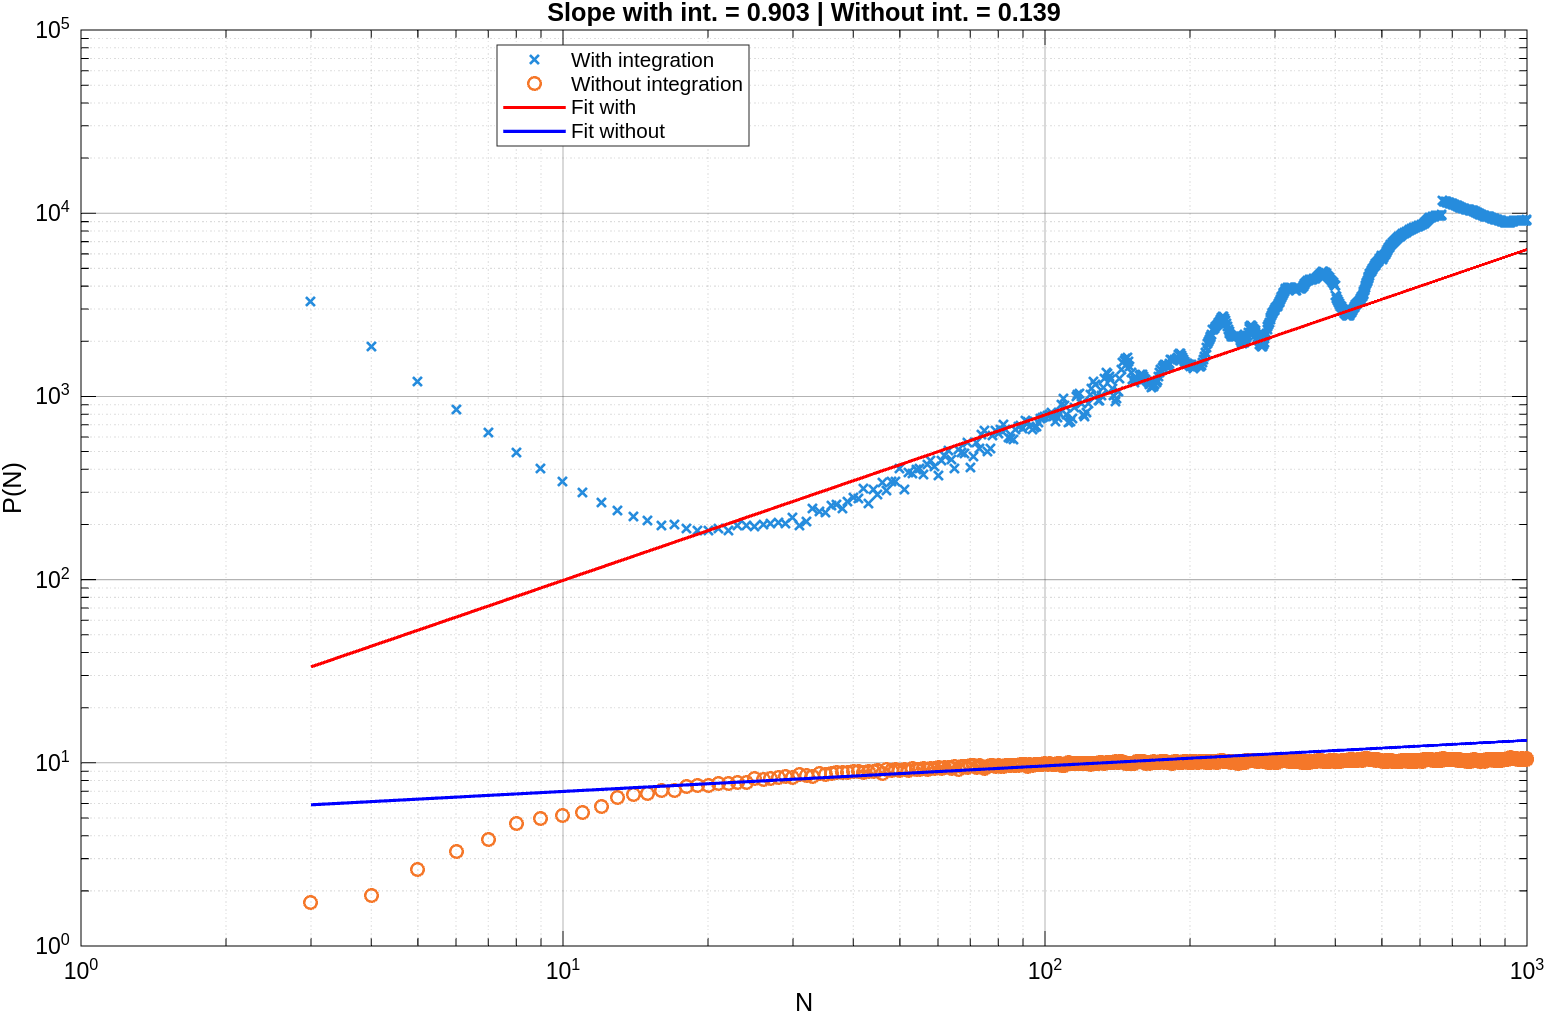
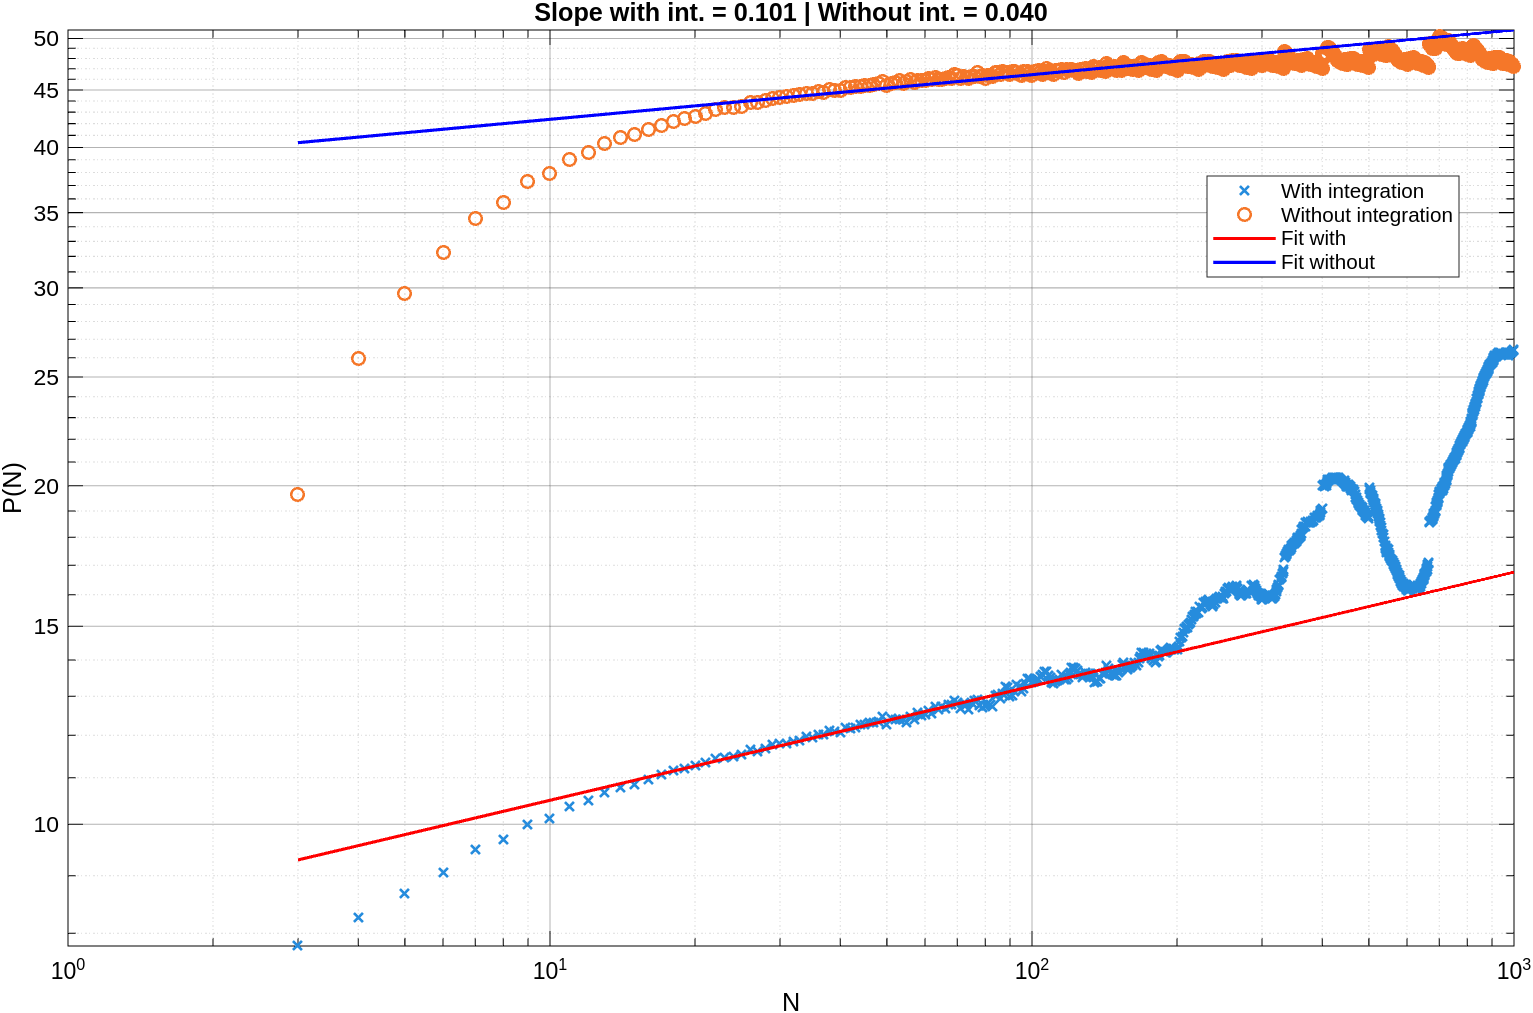
Adding new figs

diff --git a/signal_generator.m b/signal_generator.m
@@ -8,7 +8,6 @@ function plot_signal(x, y, n)
     strMeanX = sprintf('mean(x) = %.4f', mean_x);
     strMeanY = sprintf('mean(y) = %.4f', mean_y);
 
-
     figure('Name','I/O Signals');
     subplot(3, 1, 1);
     plot(1:1:n, y, 'LineWidth', 1.2, 'DisplayName', 'Output y[n]');
@@ -108,14 +107,14 @@ function plot_signal_properties(u, fn, N, sigName)
     sgtitle(sprintf('Statistical properties of %s', sigName), 'Color', 'k', 'FontSize', 14, 'FontWeight', 'bold');
 end
 
-% Etape 1
+% Step 1
 function y_cum = integrate_signal(x)
     x_cent = x - mean(x);
     % y_cum = cumtrapz(1:length(x), x_cent); % Which one int. is better ?
     y_cum = cumsum(x_cent);
 end
 
-% Etape 2/a
+% Step 2/a
 function trend = proc_trend_2a(x, N, k)
     M = length(x);
     nb_wind = floor(M/N);
@@ -129,7 +128,7 @@ function trend = proc_trend_2a(x, N, k)
     trend = trend_x;
 end
 
-% Etape 2/b
+% Step 2/b
 function trend = proc_trend_2b(x, N)
     M = length(x);
     nb_wind = floor(M/N);
@@ -151,7 +150,7 @@ function trend = proc_trend_2c1(x, N)
     h_eq = conv(h, fliplr(h)); % Length = 2N-1 ; Shift = N-1
     for i = 1 : nb_wind
         full = conv(x((i-1) * N + 1 : i*N), h_eq); % Length = 3N-2
-        trend_segm = full(N:2*N-1);        
+        trend_segm = full(N:2*N-1);
         trend_x((i-1) * N + 1 : i*N) = trend_segm;
     end
     trend = trend_x;
@@ -173,6 +172,7 @@ function trend = proc_trend_2c2(x, N)
     trend = trend_x;
 end
 
+% Etape 4
 function [N_values, P, coef, slope] = compute_power_proc_r(y)
     M = length(y);
     N_values = 3:floor(M/2);
@@ -183,9 +183,9 @@ function [N_values, P, coef, slope] = compute_power_proc_r(y)
         L  = floor(M/Ni);
         trend = proc_trend_2c2(y, Ni); % Switch to change version of computation of the trend
         r = y(1:L*Ni) - trend(1:L*Ni);
-        P(idx) = mean(r.^2);
+        P(idx) = mean(abs(r).^2);
     end
-    idx_fit = N_values >= 10 & N_values <= floor(M/10); % Avoid extreme values for the fit
+    idx_fit = N_values >= 15 & N_values <= floor(M/10); % Avoid extreme values for the fit
     coef = polyfit(log(N_values(idx_fit)), log(P(idx_fit)), 1);
     slope = coef(1);
 end
@@ -205,11 +205,11 @@ z2 = R * exp(-1i*omega2);
 
 fn = -1/2 : 1/N : 1/2 - 1/N;
 
-%b = [1, -2*real(z1)-2*real(z2), abs(z1)^2 + abs(z2)^2 + 4*real(z1)*real(z2), -2*real(z1)*abs(z2)^2 -2*real(z2)*abs(z1)^2, abs(z1)^2*abs(z2)^2];
-%a = 1;
+% b = poly([z1 conj(z1) z2 conj(z2)]);
+% a = 1;
 
-b = poly([z1 conj(z1) z2 conj(z2)]);
-a = 1;
+b = 1;
+a = poly([z2 conj(z2)]);
 
 h = freqz(b, a, 2*pi*fn);
 
@@ -217,6 +217,7 @@ u = randn(N, 1);
 x = filter(b, a, u);
 
 y = integrate_signal(x);
+
 
 [N_values_y, P_y, coef_y, slope_y] = compute_power_proc_r(y);
 [N_values_x, P_x, coef_x, slope_x] = compute_power_proc_r(x); % without integration step.
